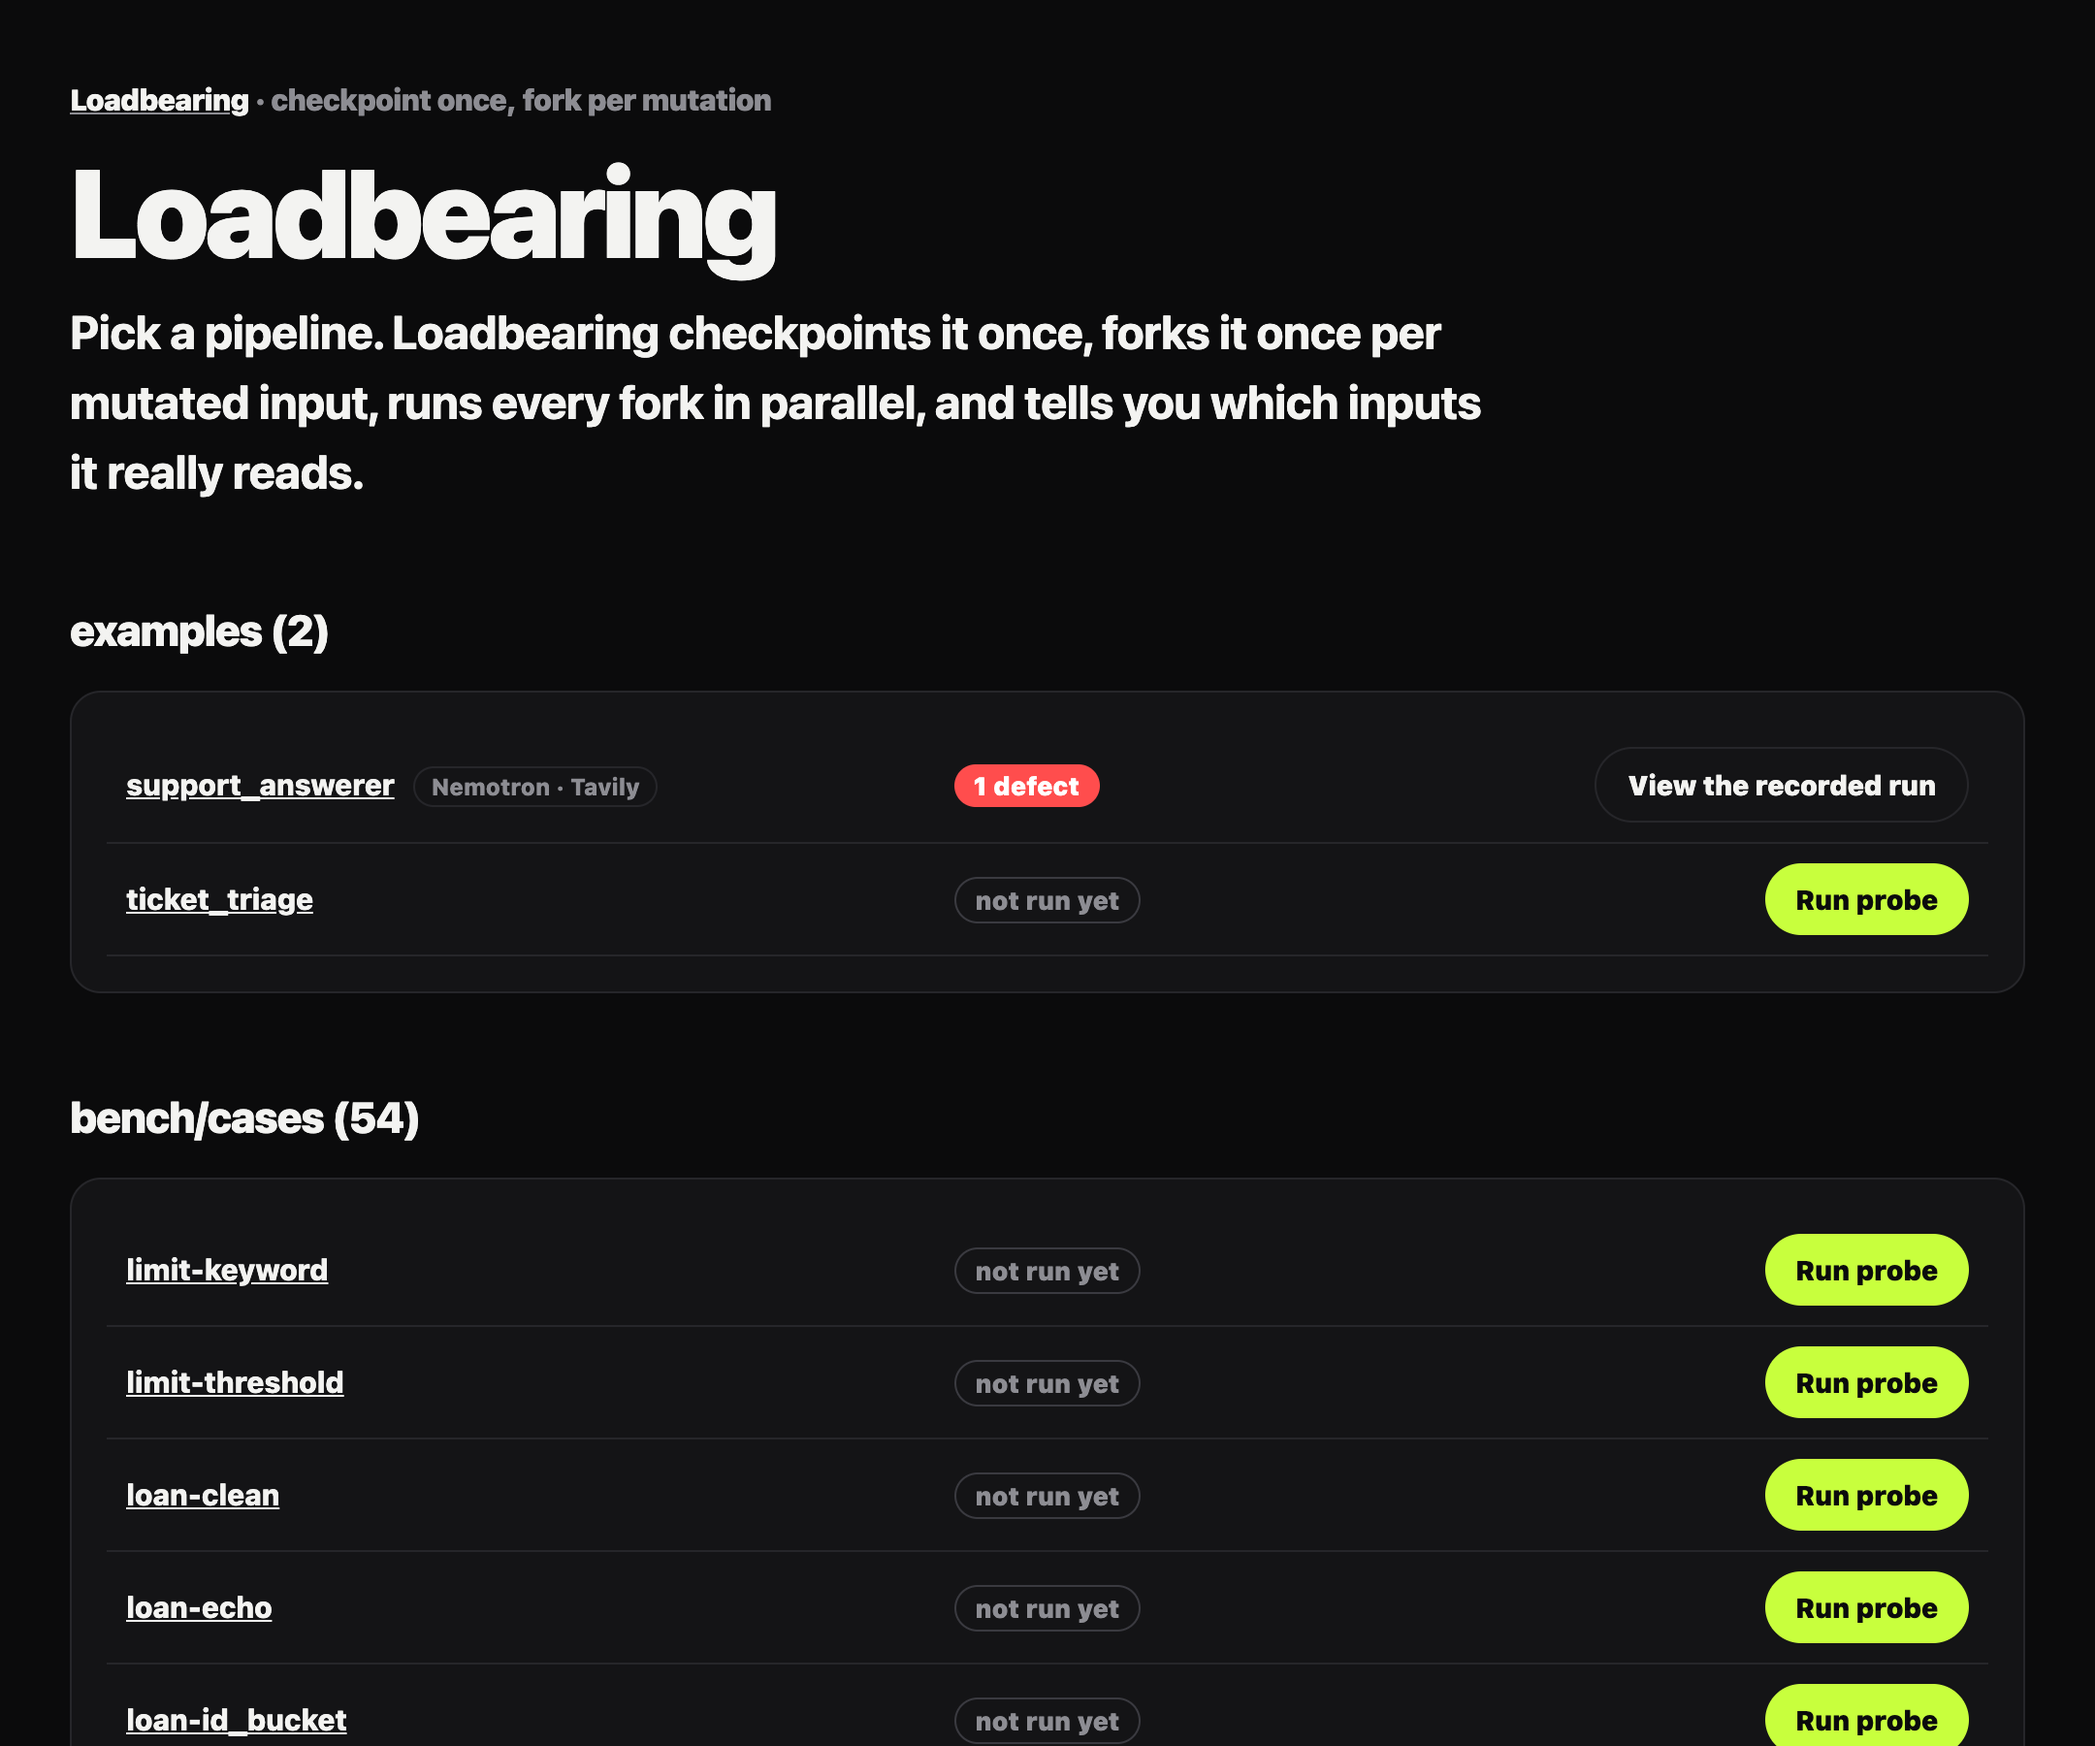
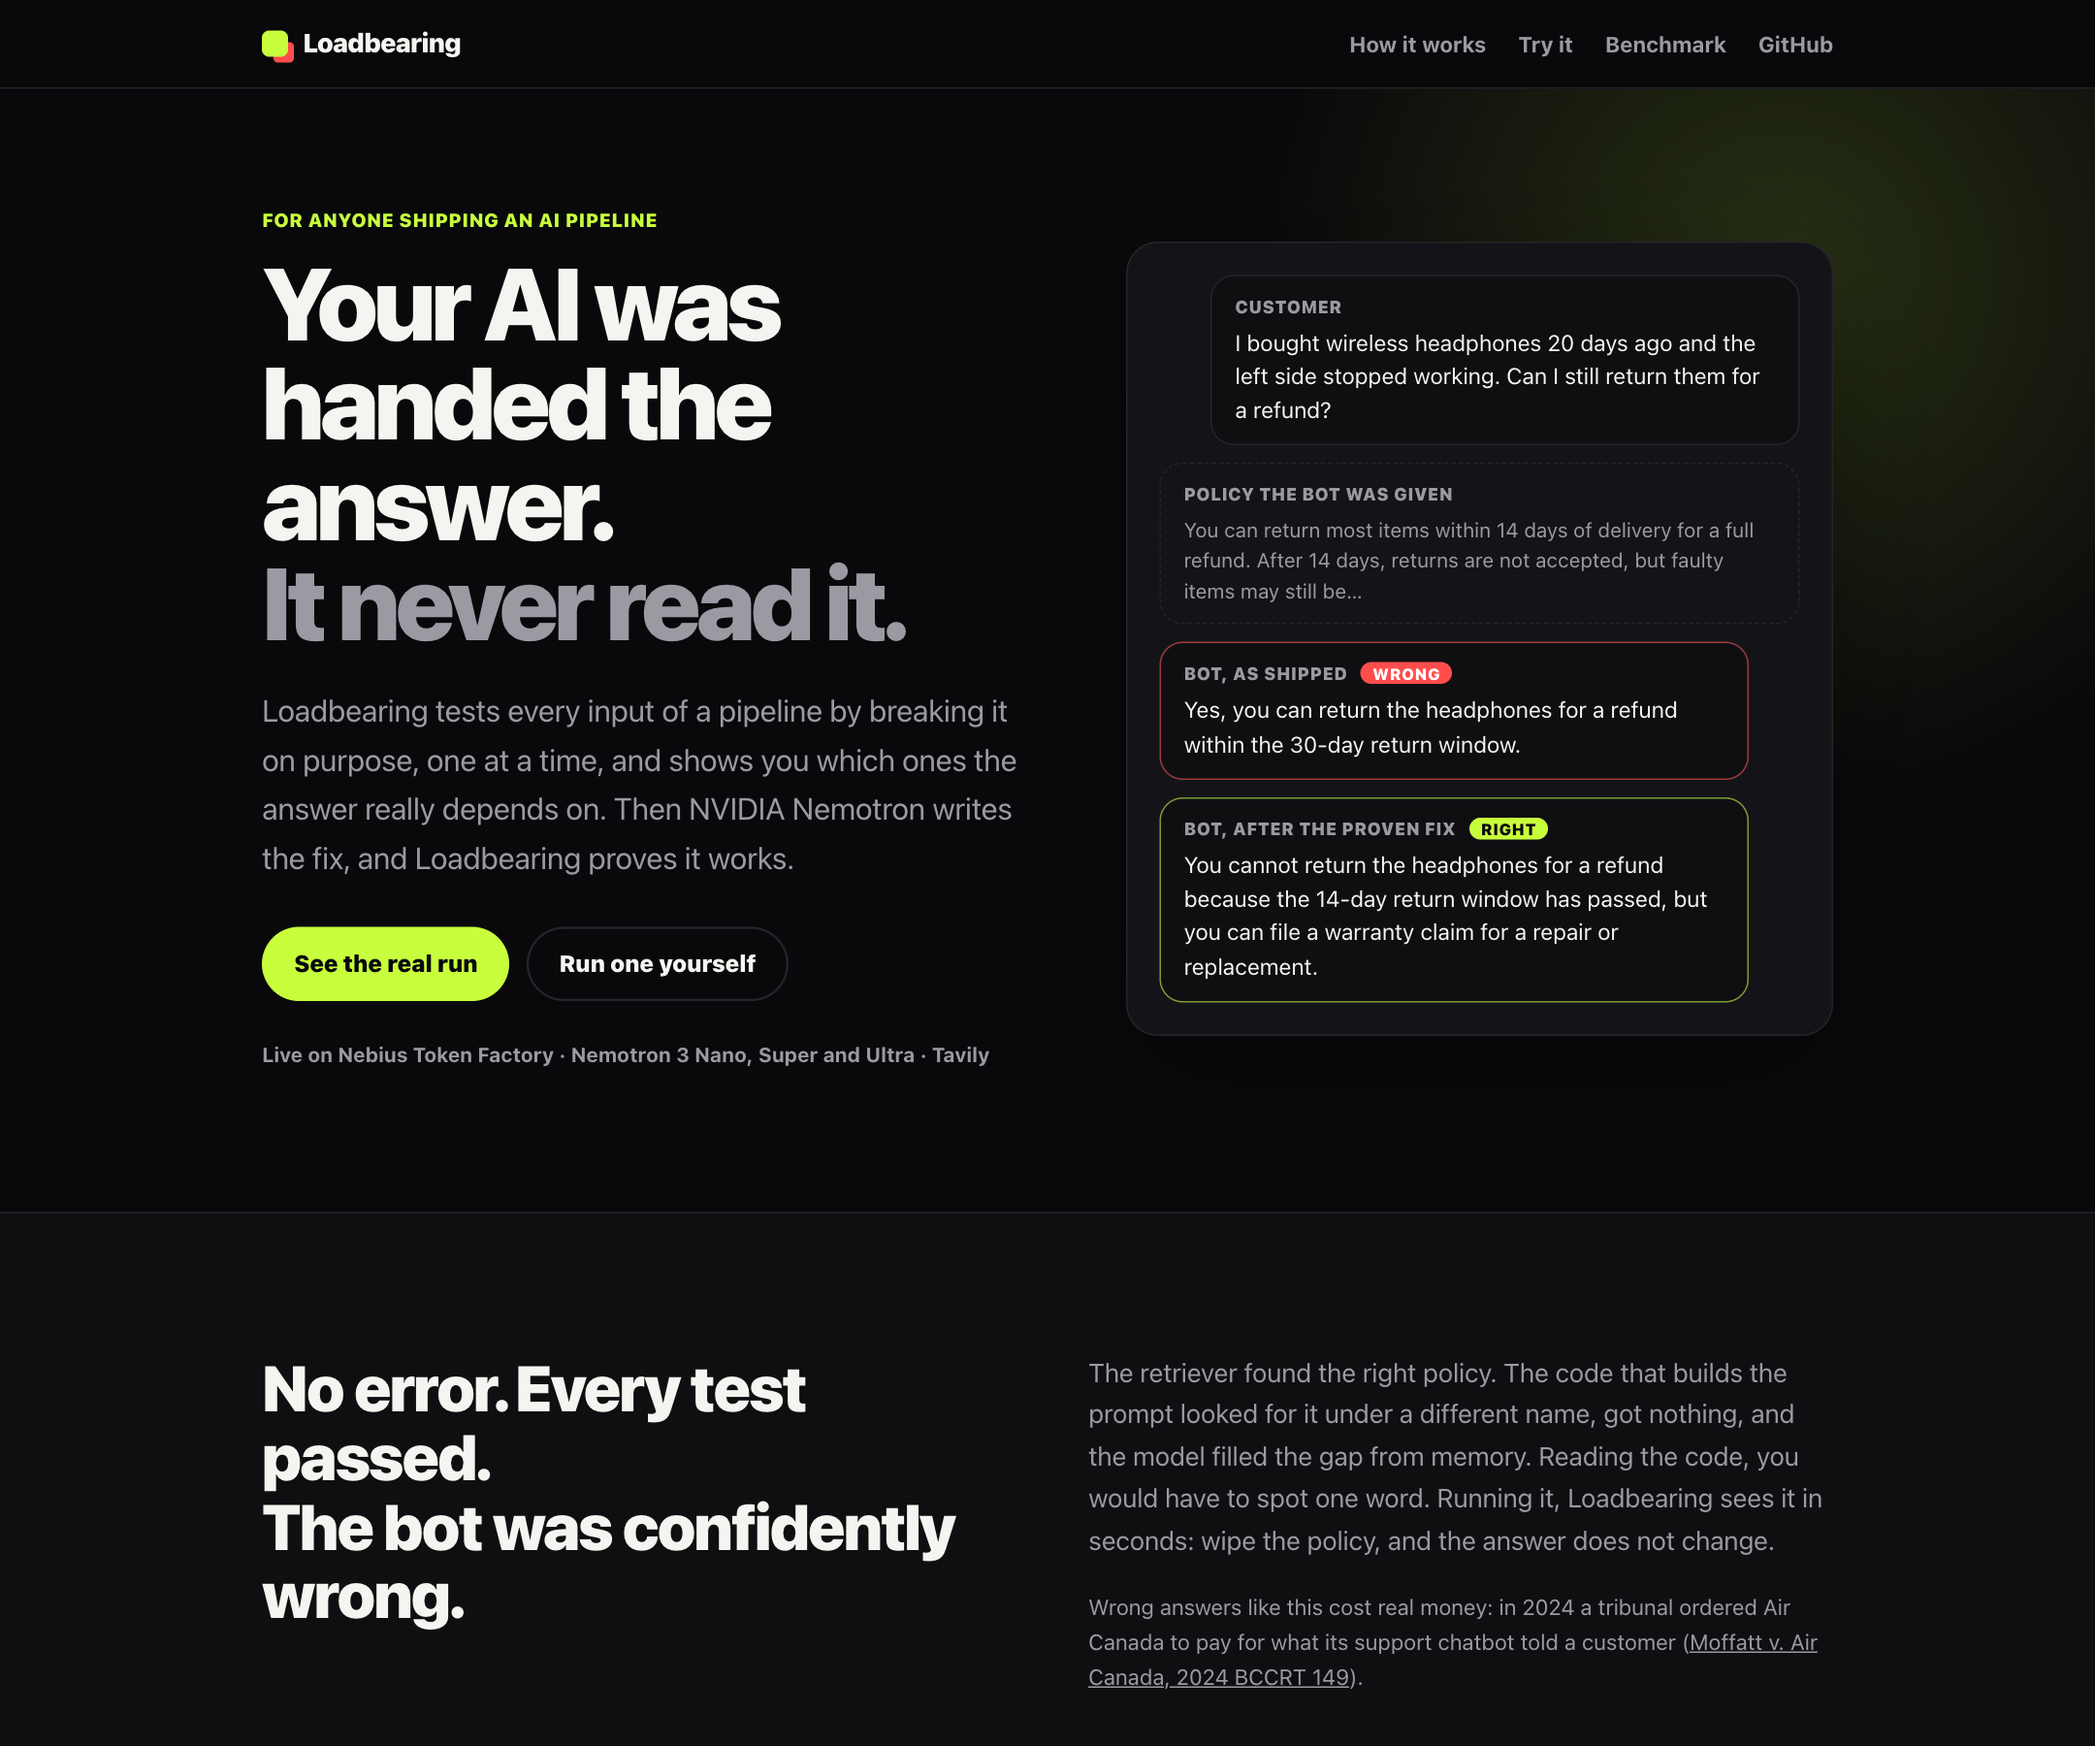
Show the new front page in the README and log it

diff --git a/PROGRESS.md b/PROGRESS.md
@@ -96,6 +96,10 @@ Problem statement: [SPEC.md](SPEC.md). Setup, target format, layout: [README.md]
 
 Newest first.
 
+### 2026-10-17
+- **New front page live** (Aeshvarya, `3eb67d4`): the index is now a page anyone can follow, built from the recorded support answerer run. It shows the customer's question, the policy, the wrong answer and the answer after the proven fix; then the Air Canada case, how it works with the real fork tree, the two kinds of bug, and every target as a card that says in plain words what was planted. A run on a card checks the result against the planted bug, and "Run all 54" runs the whole benchmark in the browser. Checked on the live site in Chrome: 50 of 54 exactly right in 13.8 s, the same four misses as `bench/results.json`, no errors. A paid run is still refused 403, and every run page links back to the front page.
+- On a phone the fork tree scrolls sideways and opens on the field names. README screenshots re-taken from the live site. 202 tests pass.
+
 ### 2026-10-16 (b)
 - **A6 live: https://loadbearing-demo.vercel.app** (Aeshvarya). Vercel project linked to the fork, so every sync of `main` redeploys it (the first one did, Ready in 15 s). Checked logged out: the index lists both sections (2 + 54), a free run of the toy target finds both defects in about 1 s, the support answerer's recorded run shows NVIDIA's quote and Ultra's proven fix, and `POST /t/support_answerer/run` is refused 403. No key is set on the host. `DEMO_URL` is set; keep-warm ran green against it.
 - The first deploy answered 404 everywhere: Vercel now hands a Python app the rewritten path, so the catch-all rewrite sent every request to `/api/index`. Removed it; Python apps are served on every path.

diff --git a/README.md b/README.md
@@ -283,12 +283,12 @@ with the changed keys marked. It fetches nothing, so a saved copy always opens.
 
 ## The demo server
 
-**Live at [loadbearing-demo.vercel.app](https://loadbearing-demo.vercel.app).** Run any free target yourself, including all 54 benchmark cases; the support answerer shows its recorded live run, since running it would spend credits.
+**Live at [loadbearing-demo.vercel.app](https://loadbearing-demo.vercel.app).** The front page explains the idea in plain words, then lets you run any free target yourself: one card at a time, or all 54 benchmark cases at once, each checked against the bug planted in it. The support answerer shows its recorded live run, since running it would spend credits.
 
 <p align="center">
 <picture>
   <source media="(prefers-color-scheme: light)" srcset="docs/img/demo-index-light.png">
-  <img alt="The demo server index: free targets can be run by anyone, paid ones show their recorded live run" src="docs/img/demo-index-dark.png" width="880">
+  <img alt="The demo front page: the support bot's wrong answer next to its answer after the proven fix, from the recorded live run" src="docs/img/demo-index-dark.png" width="880">
 </picture>
 </p>
 
